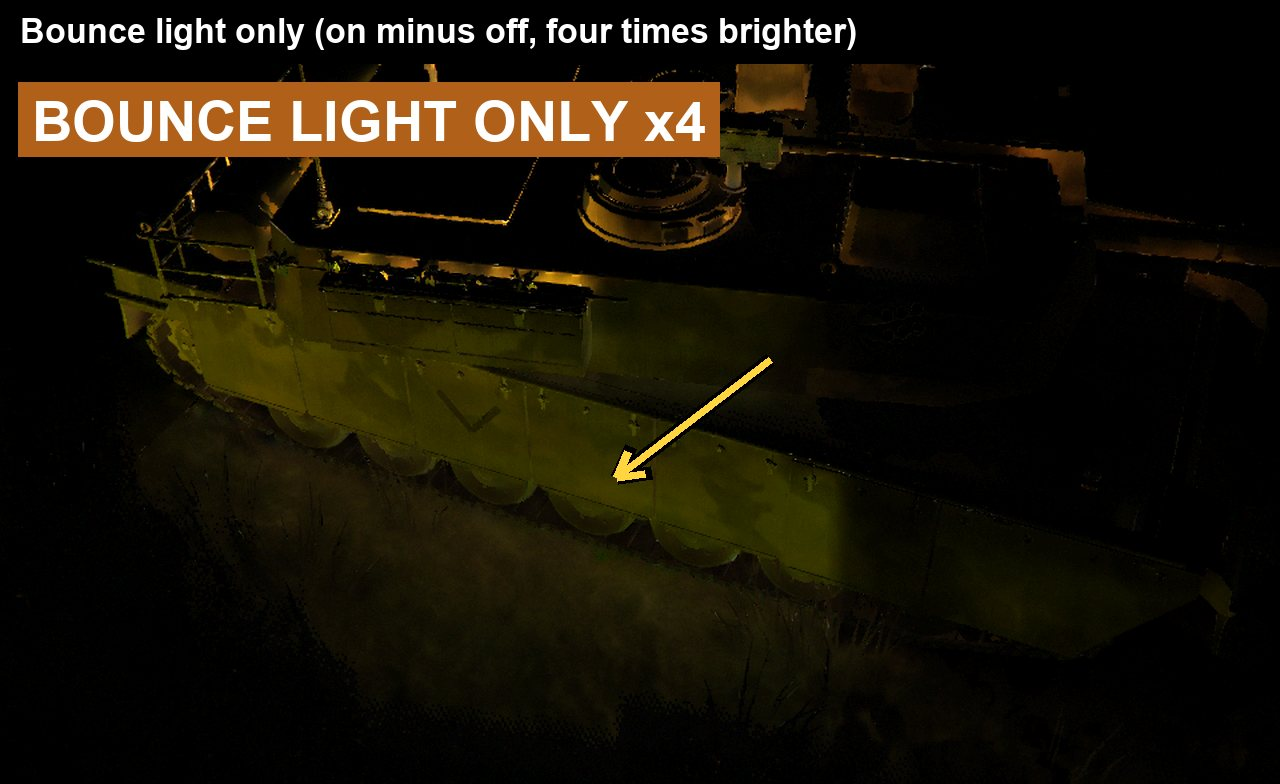
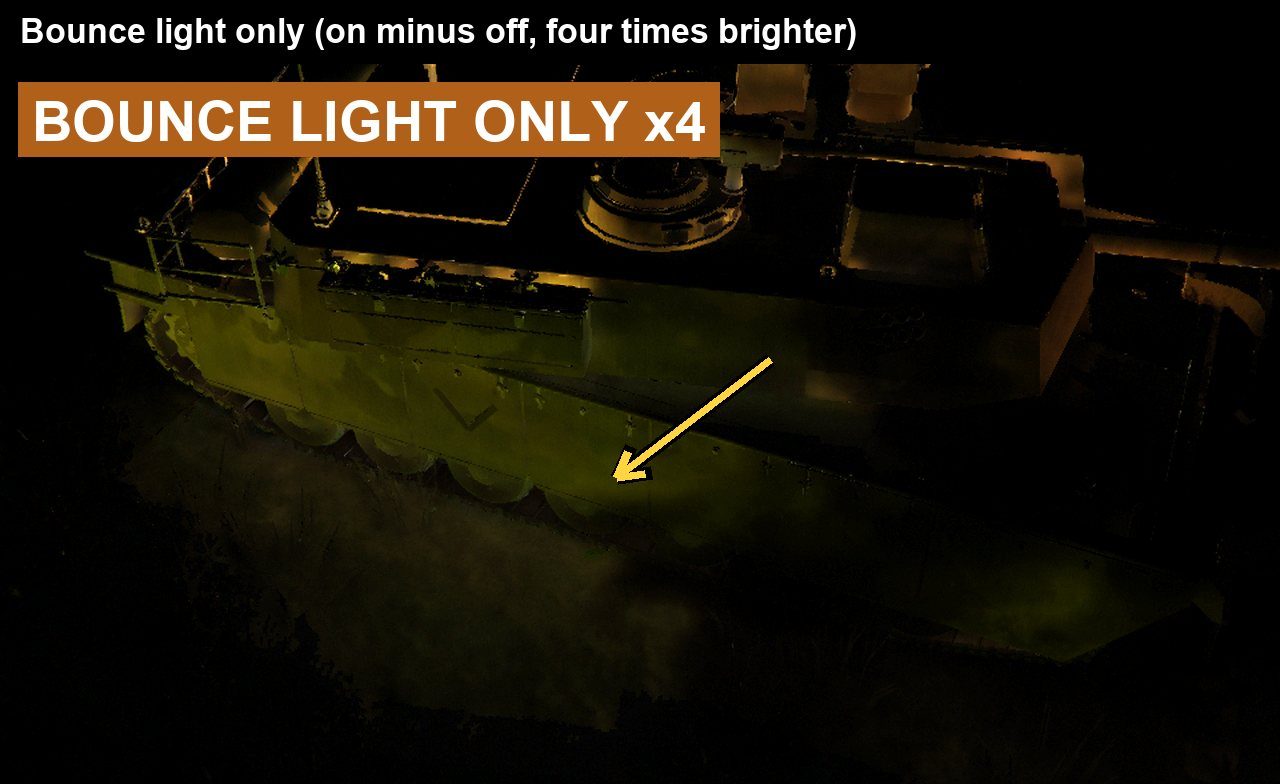
Bounce light: no brown cast on soldiers, men and vehicles only take a fill
Review found soldiers by a pale stone wall browned: the added light on them
was almost all red and green (blue share 3%). The gathered light is laid on
richer in colour to bring back a wall's tint, but that boosted the sun's own
warmth too, and a pale wall or lawn lit by it came back orange. The colour is
now brought back against the sun's colour, not white (blue share 14%; the
remaining warmth is the tan stone's own).

What the renderer marks as moving (men, vehicles) now takes only a fill: at
most half again the shade's own light, at half the colour, and rays from a
mover that run into a mover (his own body, first) bring nothing back, so no
self-bounce. Camouflage keeps its colours; a tank's shaded side gains about 6%
at midday (was 15%).

FL_DEBUG_SSGI_VIEW=14 shows the renderer's moving flag. New squad-on-grass
pair, tank pair and the 3x edge crop re-rendered.

diff --git a/changelog/unreleased/bounce-light-shade.md b/changelog/unreleased/bounce-light-shade.md
@@ -5,11 +5,19 @@ kind = "improved"
 
 [[screenshots]]
 file = "tank.jpg"
-caption = "A tank on sunlit grass: its shaded side and skirts pick up the grass's light (off above, on below)"
+caption = "A tank on sunlit grass: its shaded side and skirts lift a little with the grass's light (off above, on below)"
 
 [[screenshots]]
 file = "tank-light.jpg"
-caption = "The same, bounce light only (four times brighter): on the shaded hull side, while the sunlit deck and lawn stay dark"
+caption = "The same, bounce light only (four times brighter): a faint, even fill on the shaded hull side; the sunlit deck and lawn stay as they were"
+
+[[screenshots]]
+file = "squad-grass.jpg"
+caption = "A squad on grass by a road at midday: their camouflage keeps its colours"
+
+[[screenshots]]
+file = "squad-grass-light.jpg"
+caption = "The same, bounce light only (four times brighter): a faint fill on the men, and nothing on the sunlit grass and road"
 
 [[screenshots]]
 file = "dust.jpg"
@@ -79,8 +87,8 @@ caption = "Surface-history correction, before and after: the same close and comm
 +++
 
 - **Where it belongs:** sunlit grass, roads, roofs and hulls no longer take a yellowish lift. The light lands in the
-  shade beside them, where bounce light really shows. A tank's shaded side and skirts pick up the green of the grass
-  below them, and the ground in its shadow warms with the light off its hull.
+  shade beside them, where bounce light really shows. Men and vehicles take only a faint fill from the ground round
+  them, so camouflage keeps its colours, and the ground in a tank's shadow warms with the light off its hull.
 - **Behind smoke and dust:** a dust cloud in front of a hull or a wall hides its bounce light, as it hides the hull,
   instead of the light showing through.
 - **Coloured walls tint their surroundings:** a red-brick house faintly reddens the shade at its foot, even from

diff --git a/docs/FEATURES.md b/docs/FEATURES.md
@@ -1437,9 +1437,12 @@ av.gd`, `hnav.gd`, `terrain.gd`, `squad.gd`)
   keep thin things from catching rays that pass behind them, cost a third of the light off real walls and was left
   out. A rough surface also gives the gathered light back as a dielectric's sheen (Karis's split-sum fit), fading
   out on mirror-smooth ones, which the screen-space reflections handle: a few percent of the bounce on rough
-  ground, a little more on wet patches seen at a slant. Vehicles and soldiers standing on sunlit ground take its
-  light from below like anything else: a tank's shaded side and skirts gain about 15% (linear) in the green of the
-  grass at midday. In the sun the bounce is a few percent of a surface's light at most, and the short rays overstate
+  ground, a little more on wet patches seen at a slant. Vehicles and soldiers (what the renderer marks as moving) take only a fill: at most half
+  again the shade's own light on them, at half the colour, and nothing from rays that run into a man or a vehicle
+  (their own body first), so camouflage keeps its colours; a tank's shaded side gains about 6% at midday. The colour
+  the gathered light is laid on with is brought back against the sun's own colour, not white: made richer along with
+  the rest, the sun's warmth in everything it lights turned the light off a pale wall or lawn orange, and browned
+  soldiers standing by it. In the sun the bounce is a few percent of a surface's light at most, and the short rays overstate
   it (from a lawn they run into the next sunlit blades, whose faces turn every way), so where a pixel's light is the
   sun's it is laid on at 0.15: sunlit lawn, decks and roofs gain under 1.5% while the shade beside them gains 11-16%.
   Which pixels the sun reaches can't be read from brightness (a dark lawn in the sun is no brighter than a pale wall
